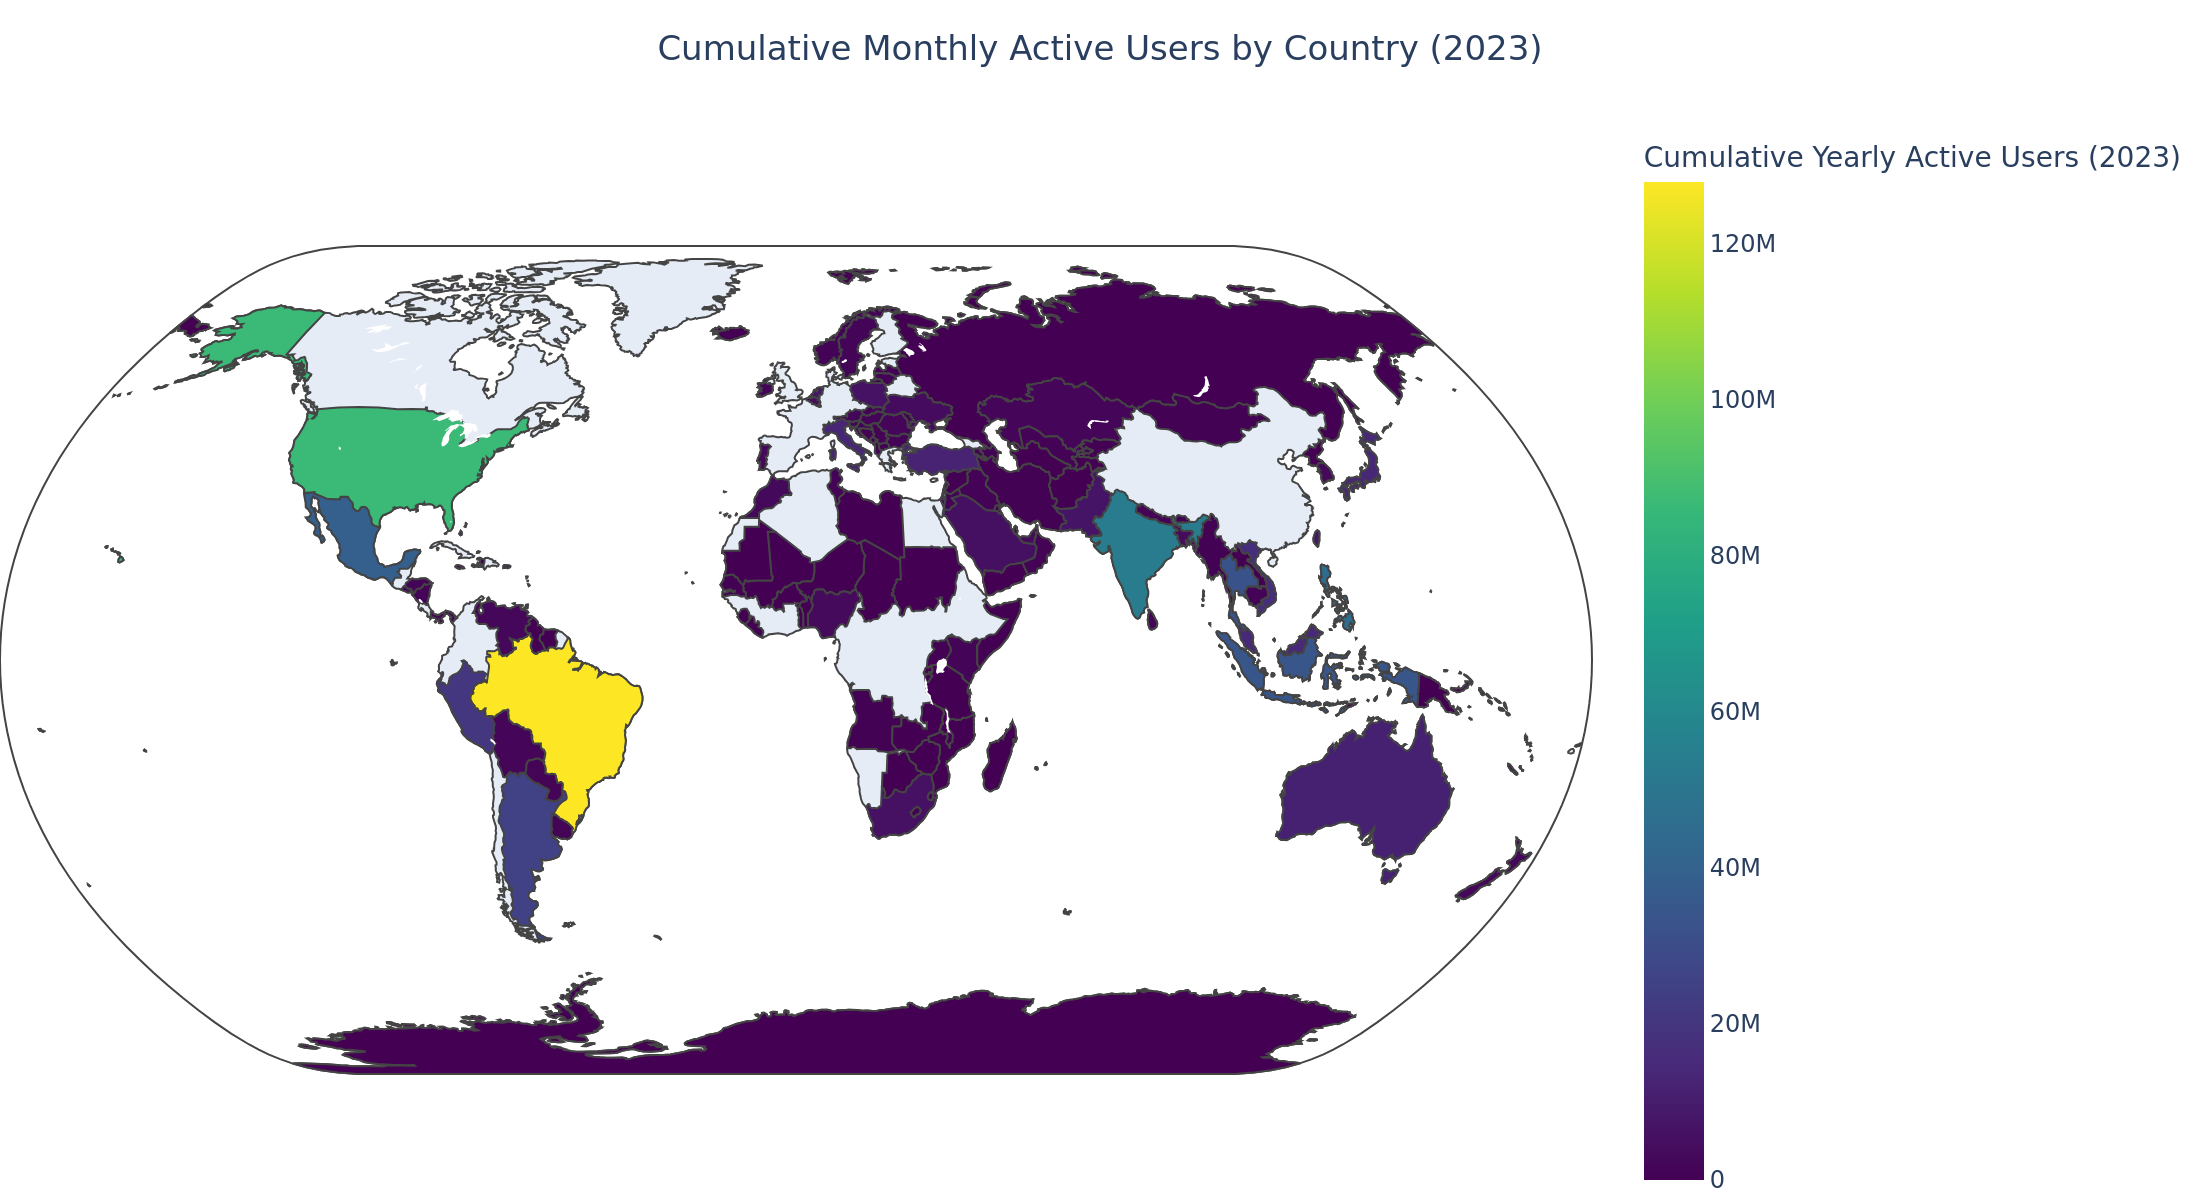
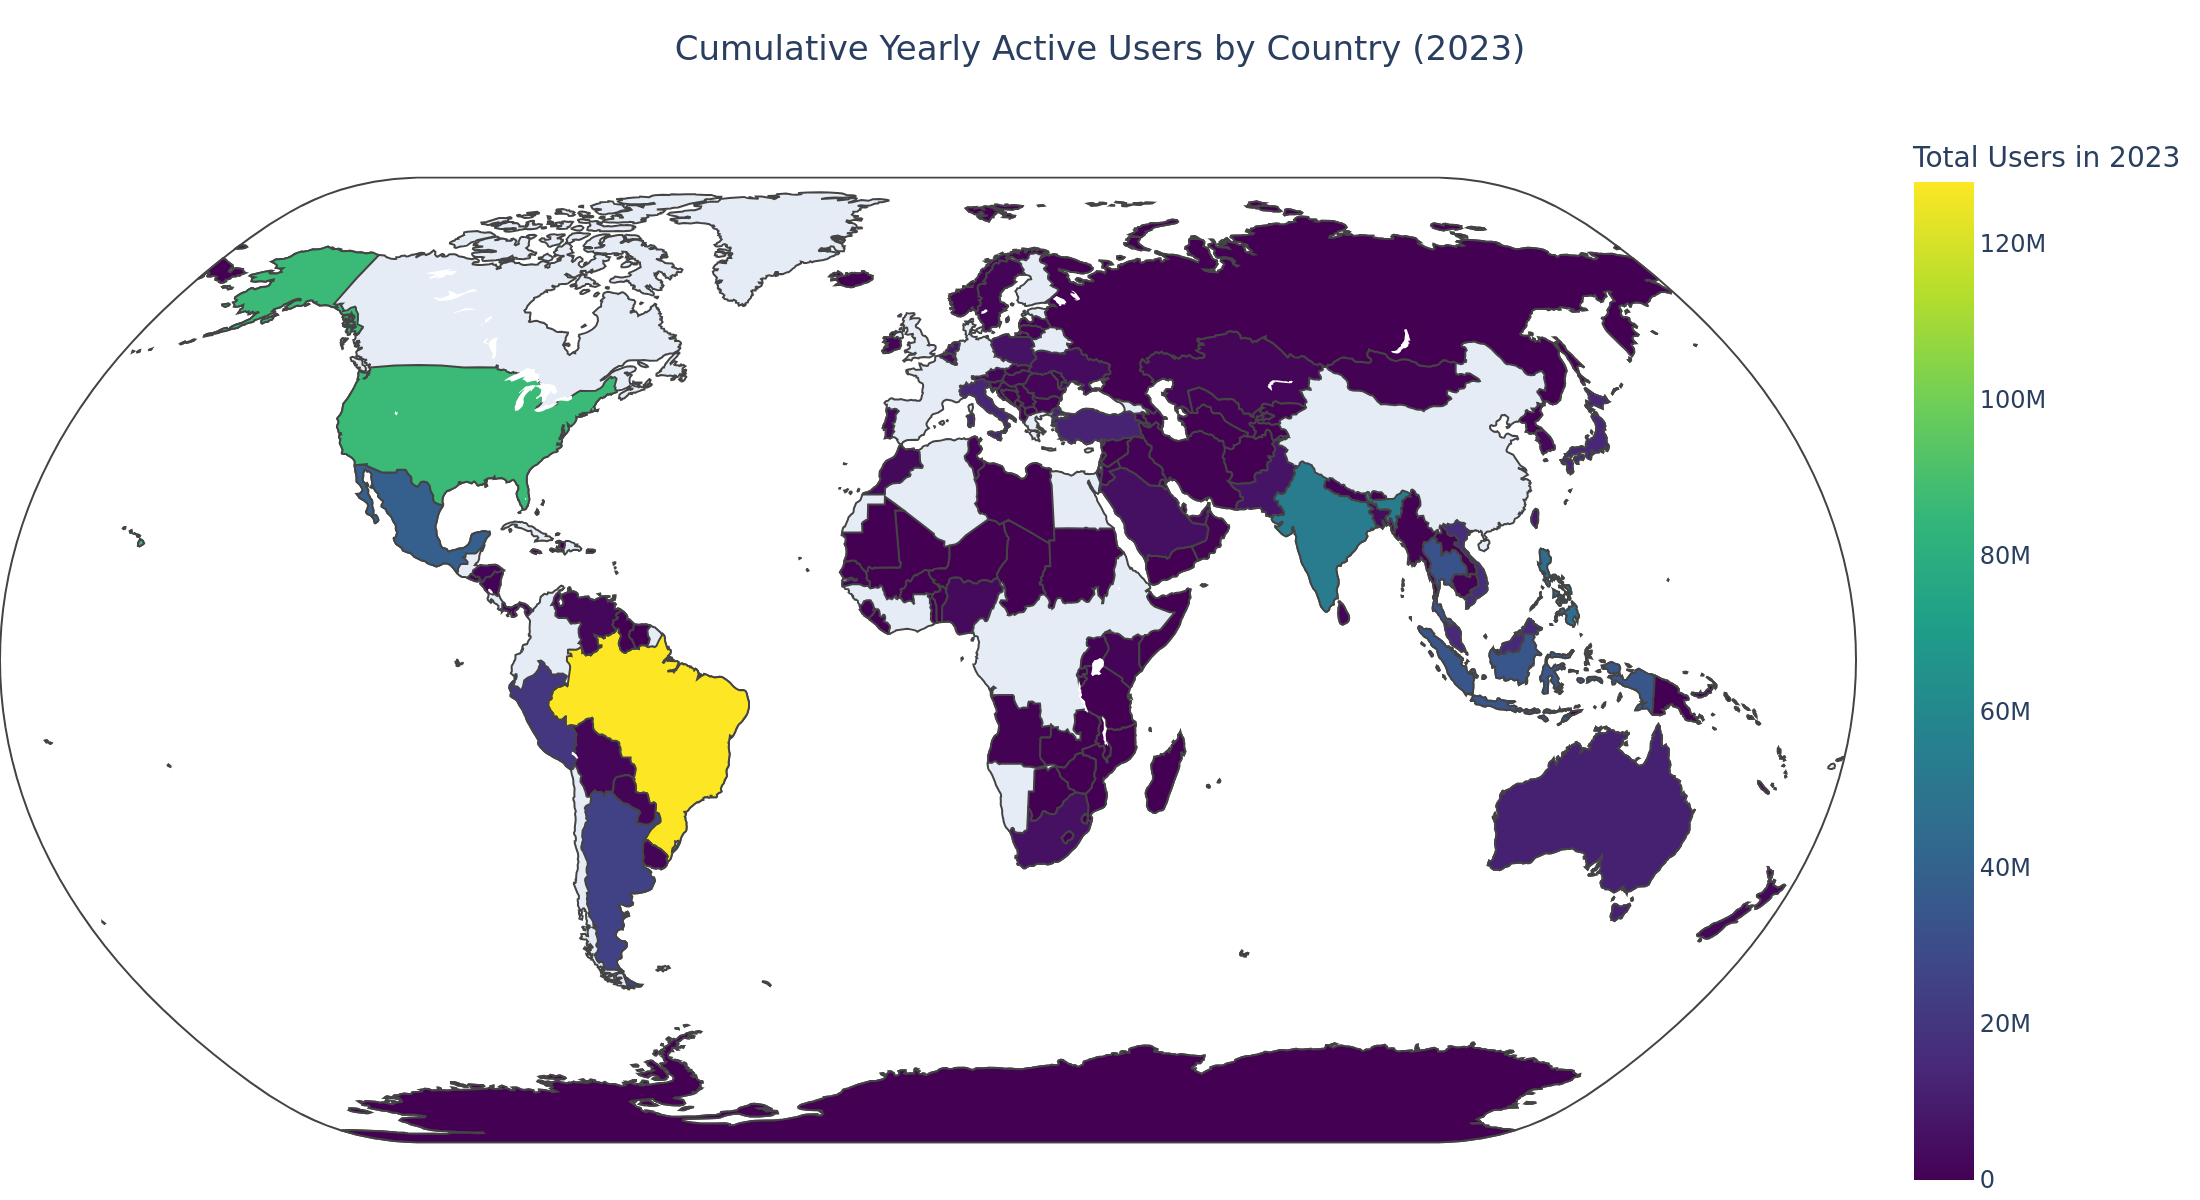
Added device heatmaps

Changed region(s): [[0.0618, 0.1233, 0.9891, 0.9867], [0.3091, 0.0308, 0.7109, 0.0617], [0.0309, 0.3083, 0.0618, 0.3392]]

diff --git a/src/process_csv.py b/src/process_csv.py
@@ -517,7 +517,8 @@ if __name__ == "__main__":
         title="Correlations",
         remove_top=True,
         # China has regulation issues,
-        # Russia is currently under sanctions,
+        # Russia is being sanctioned,
+        # I dont think there are any others but they are the ones with bigly populations anyways
         exclude_rows=["Russia", "China"]
     )
 
@@ -568,13 +569,36 @@ if __name__ == "__main__":
             mau_heatmap_png = generate_world_heatmap(
                 mau_df,
                 value_col = "2023",
-                value_name = "Cumulative Yearly Active Users (2023)",
-                title = "Cumulative Monthly Active Users by Country (2023)",
+                value_name = "Total Users in 2023",
+                title = "Cumulative Yearly Active Users by Country (2023)",
                 colour_scale = "Viridis",
                 output_png = "graphs/heatmaps/mau_2023_heatmap.png",
                 colour_range=(0, mau_df["2023"].max())
             )
             print(f"MAU 2023 heatmap saved.")
+
+            devices_df = fcr.find("device_tiers.csv")
+            devices_heatmap_png = generate_world_heatmap(
+                devices_df,
+                value_col = "Total",
+                value_name = "Total Devices",
+                title = "Total Devices by Country",
+                colour_scale = "Viridis",
+                output_png = "graphs/heatmaps/total_devices_heatmap.png",
+                colour_range=(0, devices_df["Total"].max())
+            )
+            print(f"Total devices heatmap saved.")
+
+            # Also generate capped version for visualisation
+            devices_capped_heatmap_png = generate_world_heatmap(
+                devices_df,
+                value_col = "Total",
+                value_name = "Total Devices",
+                title = "Total Devices by Country (Capped at 2 million)",
+                colour_scale = "Viridis",
+                output_png = "graphs/heatmaps/total_devices_capped_heatmap.png",
+                colour_range=(0, 2000000)
+            )
 
         except ImportError as e:
             print(f"Could not import generate_world_heatmap: {e}")
